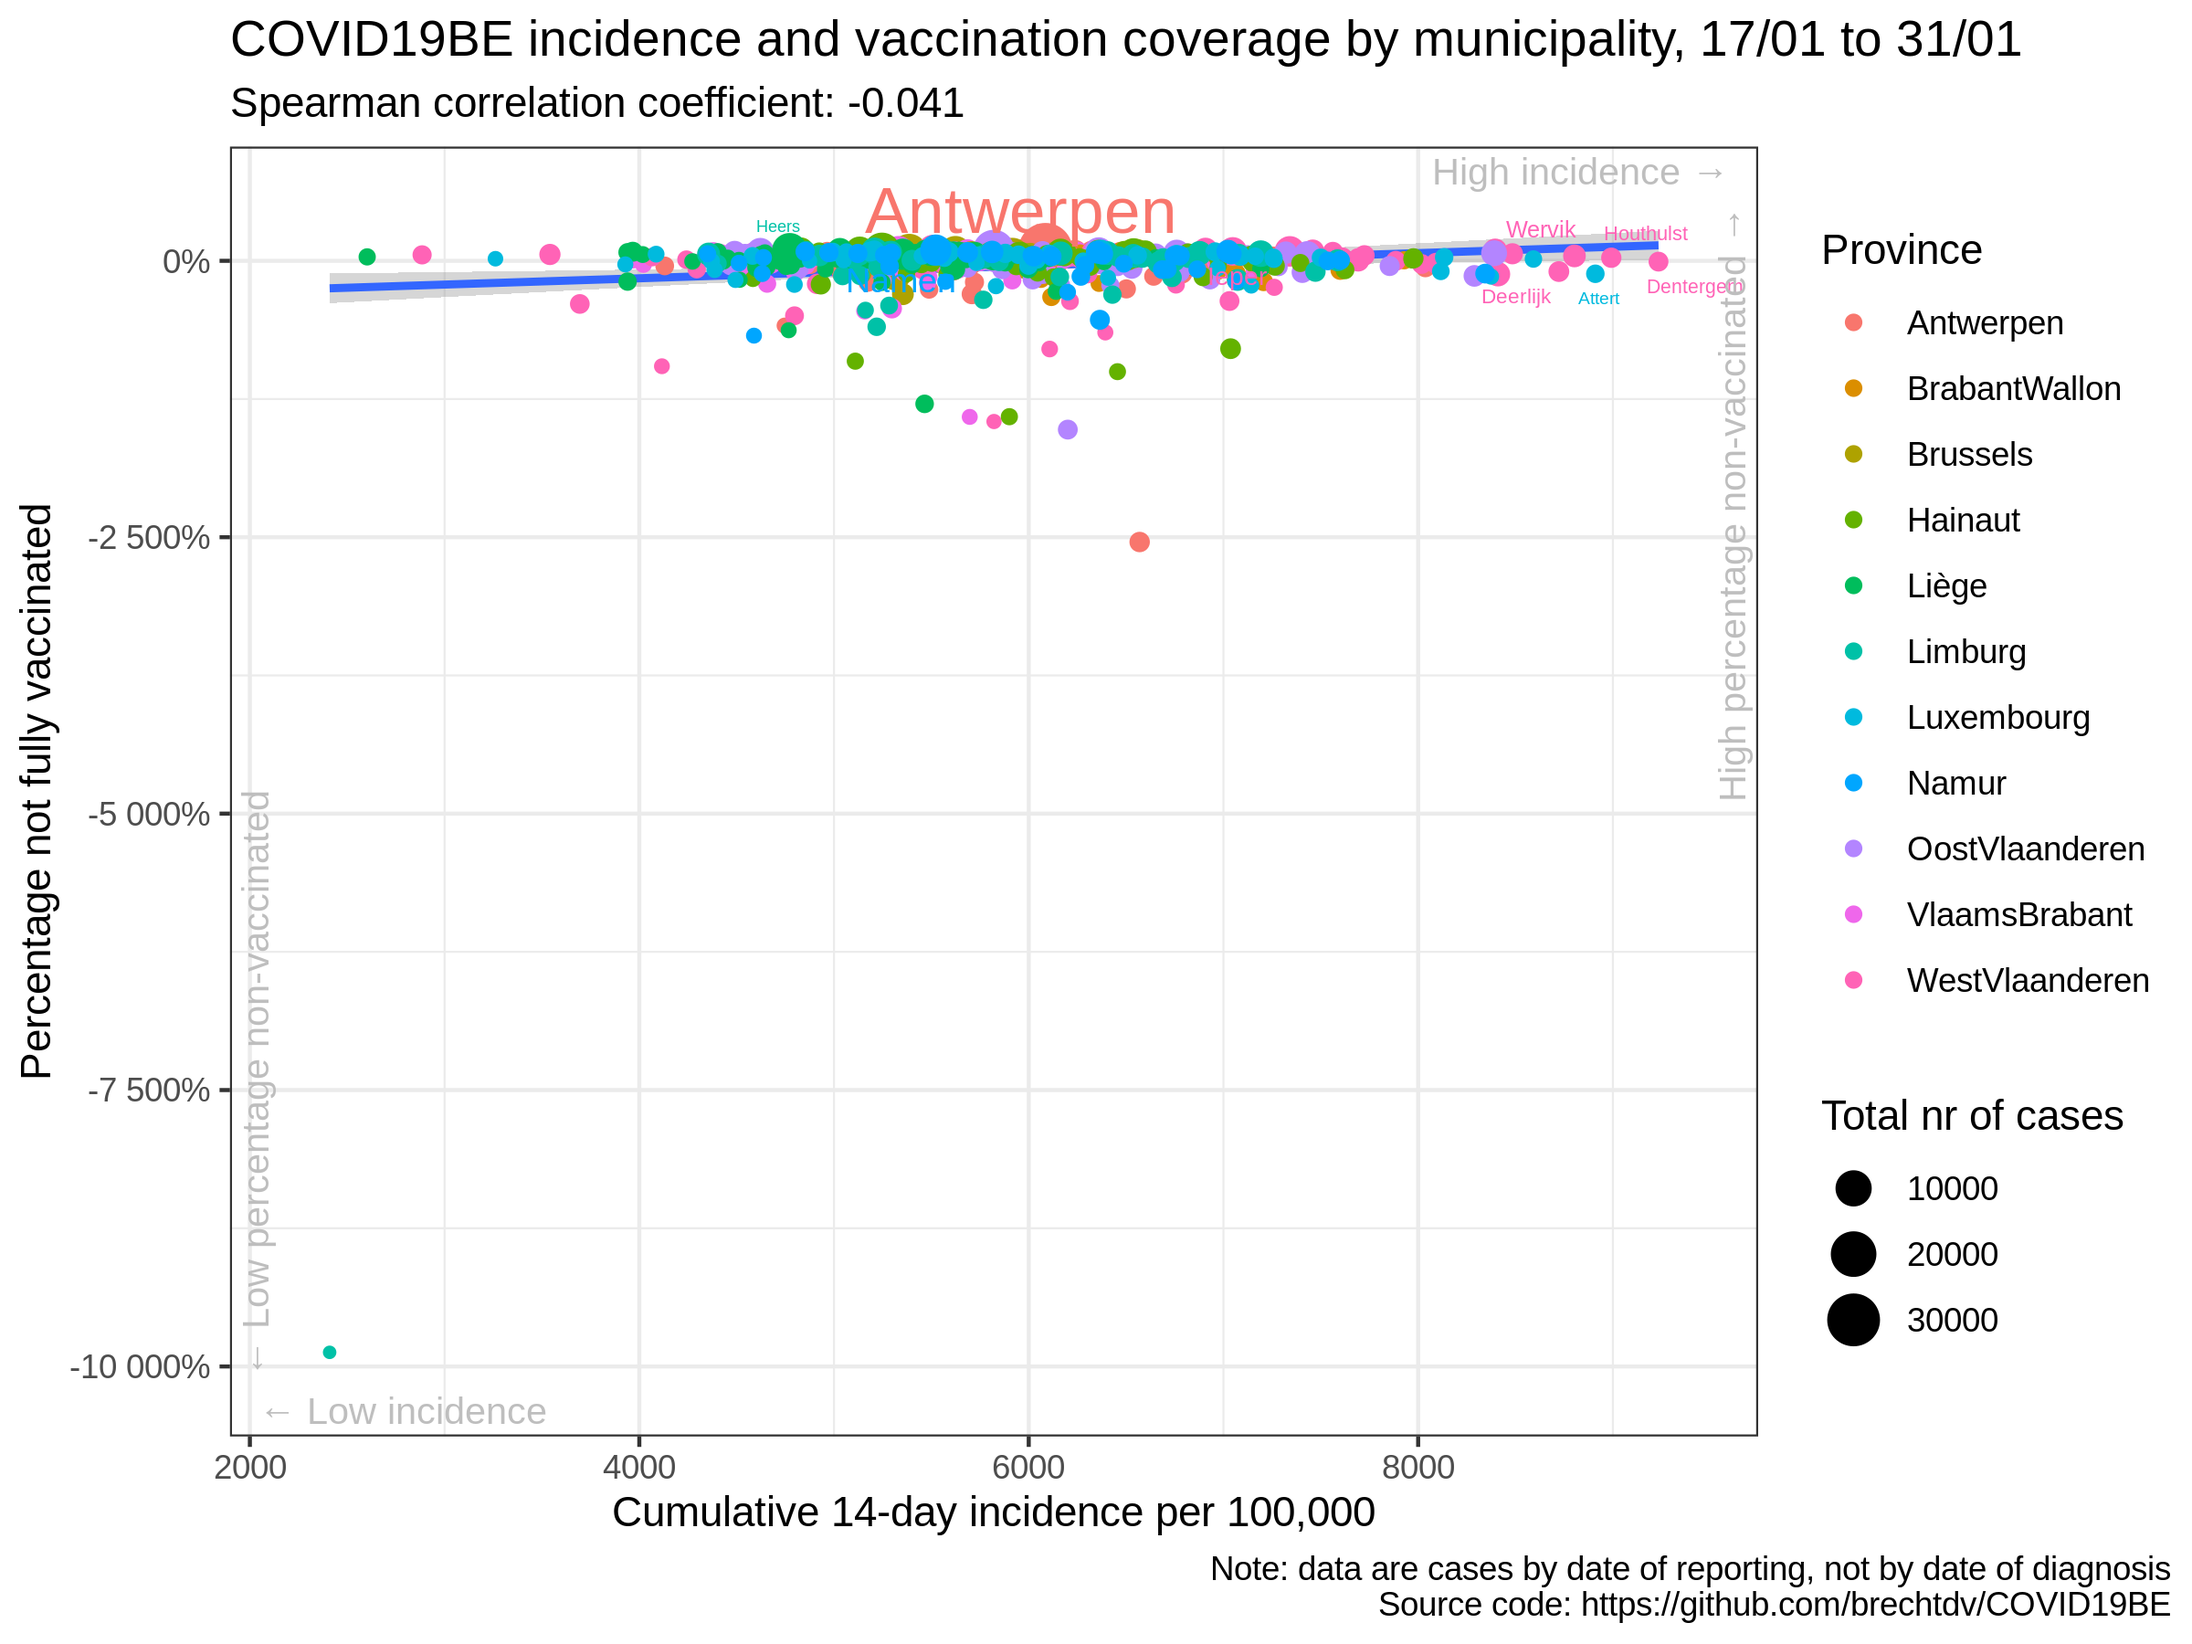
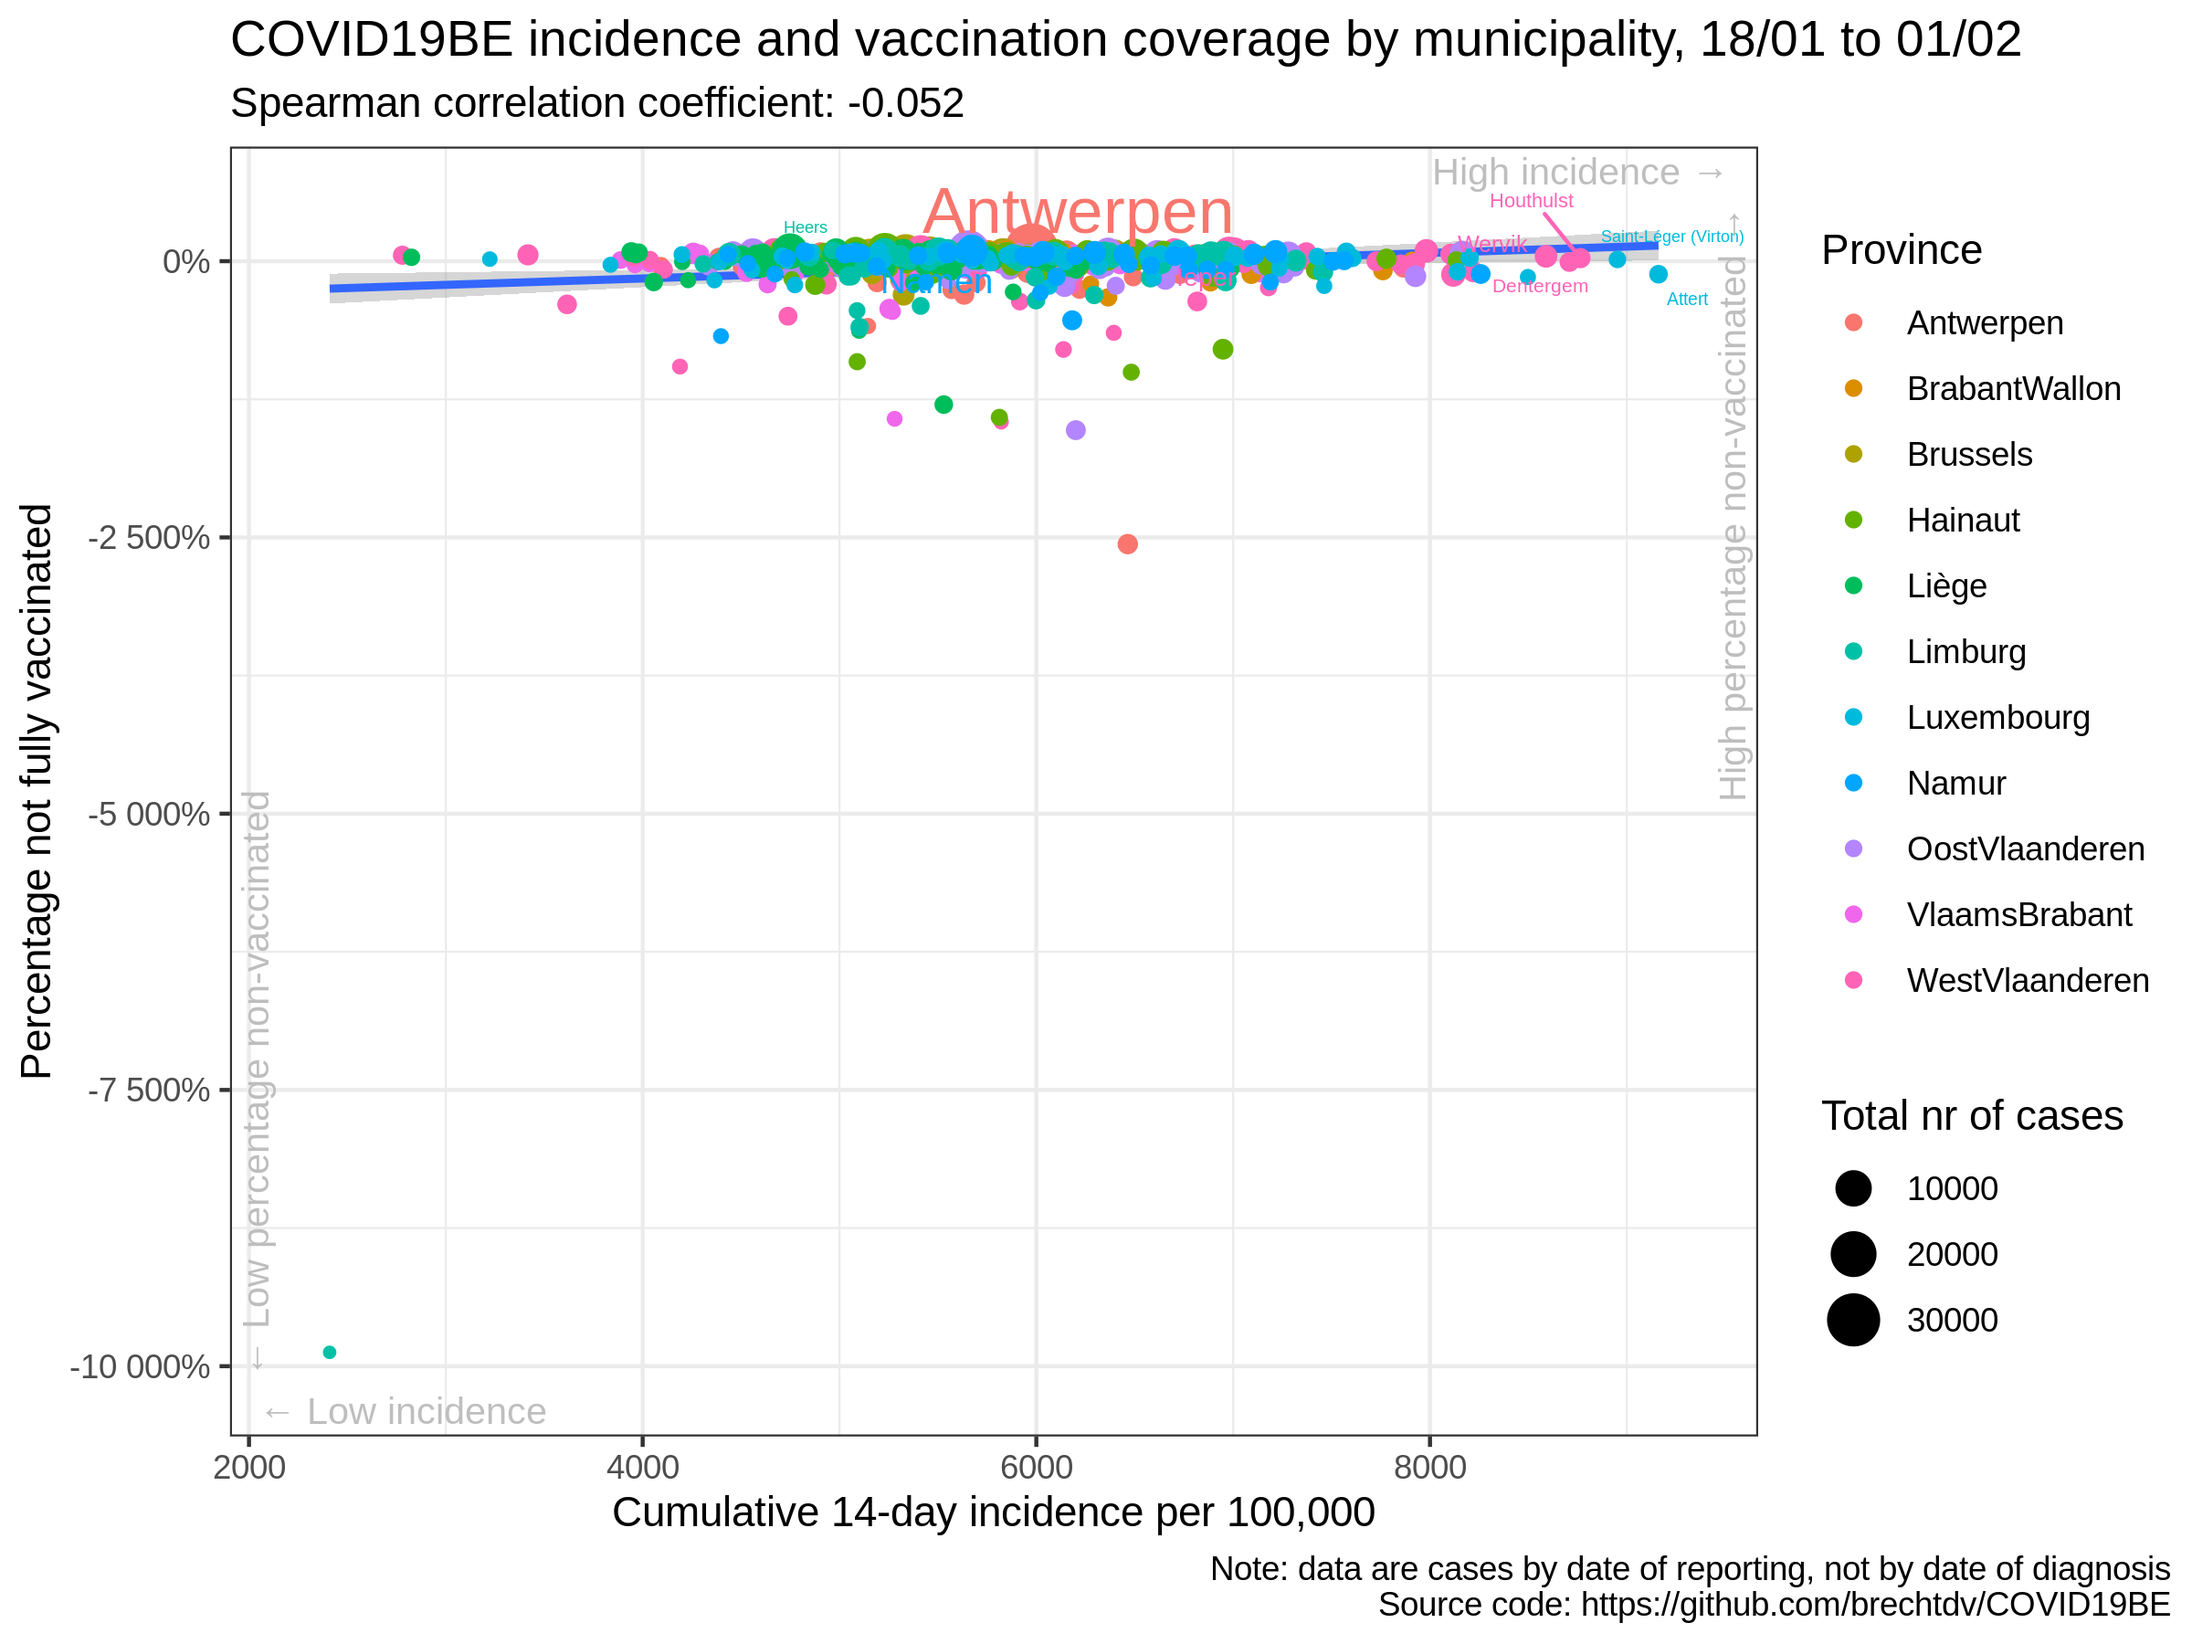
update situation

diff --git a/vaccination/README.md b/vaccination/README.md
@@ -17,35 +17,35 @@
 
 |                | estimate.rho | p.value |
 | :------------- | -----------: | ------: |
-| Antwerpen      |        0.033 |   0.790 |
-| BrabantWallon  |      \-0.538 |   0.004 |
-| Brussels       |        0.174 |   0.475 |
-| Hainaut        |      \-0.074 |   0.544 |
-| Liège          |      \-0.079 |   0.475 |
-| Limburg        |        0.055 |   0.731 |
+| Antwerpen      |      \-0.003 |   0.979 |
+| BrabantWallon  |      \-0.543 |   0.004 |
+| Brussels       |        0.093 |   0.705 |
+| Hainaut        |      \-0.097 |   0.426 |
+| Liège          |      \-0.128 |   0.245 |
+| Limburg        |        0.068 |   0.667 |
 | Luxembourg     |      \-0.098 |   0.525 |
-| Namur          |      \-0.192 |   0.253 |
-| OostVlaanderen |      \-0.130 |   0.321 |
-| VlaamsBrabant  |        0.057 |   0.650 |
-| WestVlaanderen |        0.125 |   0.326 |
-| Belgium        |      \-0.041 |   0.326 |
+| Namur          |      \-0.137 |   0.419 |
+| OostVlaanderen |      \-0.150 |   0.252 |
+| VlaamsBrabant  |        0.047 |   0.709 |
+| WestVlaanderen |        0.107 |   0.401 |
+| Belgium        |      \-0.052 |   0.209 |
 
 ### Correlation cumulative incidence vs booster rate
 
 |                | estimate.rho | p.value |
 | :------------- | -----------: | ------: |
-| Antwerpen      |        0.036 |   0.769 |
-| BrabantWallon  |      \-0.540 |   0.004 |
-| Brussels       |        0.149 |   0.541 |
-| Hainaut        |      \-0.068 |   0.576 |
-| Liège          |      \-0.100 |   0.366 |
-| Limburg        |        0.056 |   0.723 |
-| Luxembourg     |      \-0.109 |   0.478 |
-| Namur          |      \-0.173 |   0.306 |
-| OostVlaanderen |      \-0.123 |   0.350 |
-| VlaamsBrabant  |        0.026 |   0.835 |
-| WestVlaanderen |        0.137 |   0.280 |
-| Belgium        |      \-0.049 |   0.239 |
+| Antwerpen      |      \-0.002 |   0.986 |
+| BrabantWallon  |      \-0.543 |   0.004 |
+| Brussels       |        0.077 |   0.754 |
+| Hainaut        |      \-0.095 |   0.436 |
+| Liège          |      \-0.146 |   0.185 |
+| Limburg        |        0.068 |   0.666 |
+| Luxembourg     |      \-0.108 |   0.485 |
+| Namur          |      \-0.123 |   0.468 |
+| OostVlaanderen |      \-0.155 |   0.237 |
+| VlaamsBrabant  |        0.023 |   0.857 |
+| WestVlaanderen |        0.110 |   0.384 |
+| Belgium        |      \-0.061 |   0.144 |
 
 ### Data source
 
